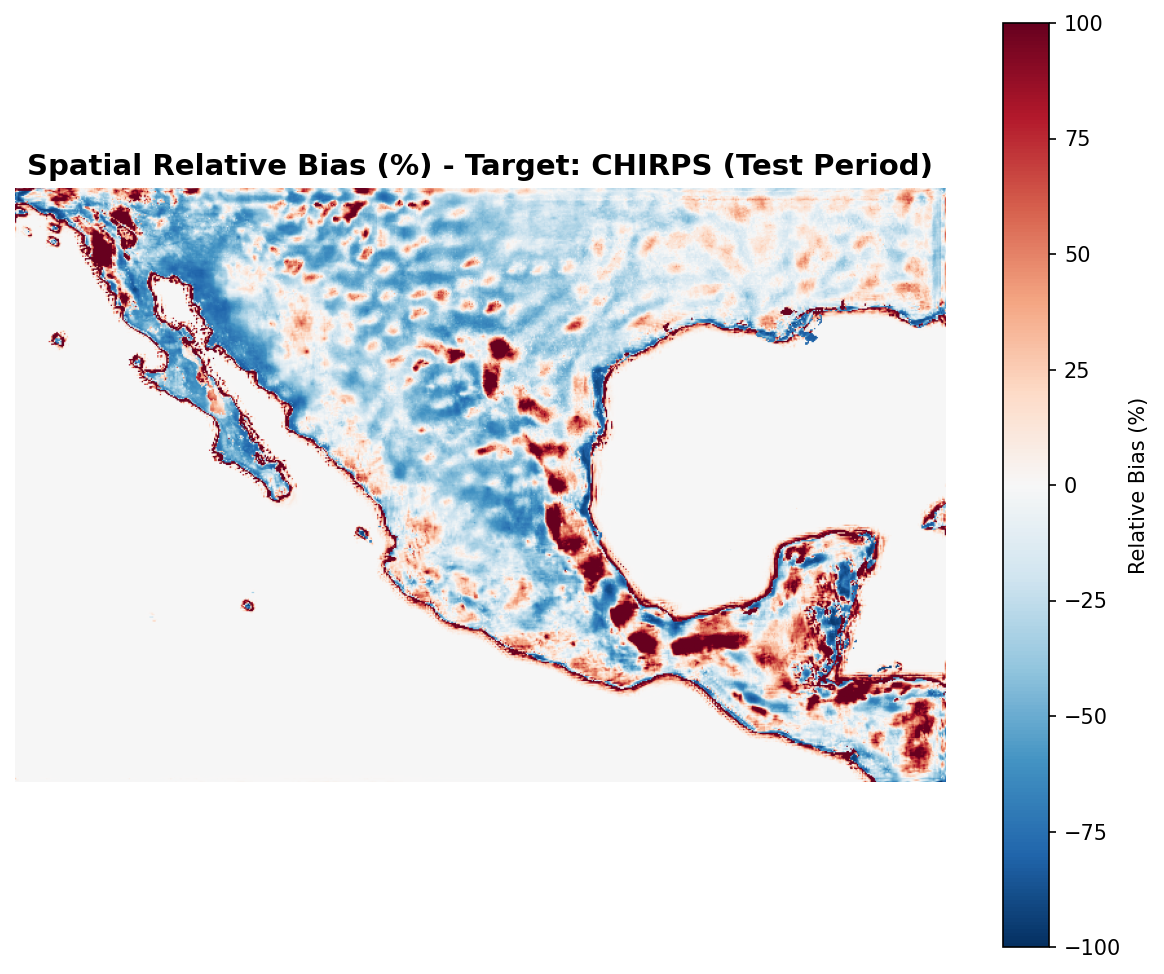
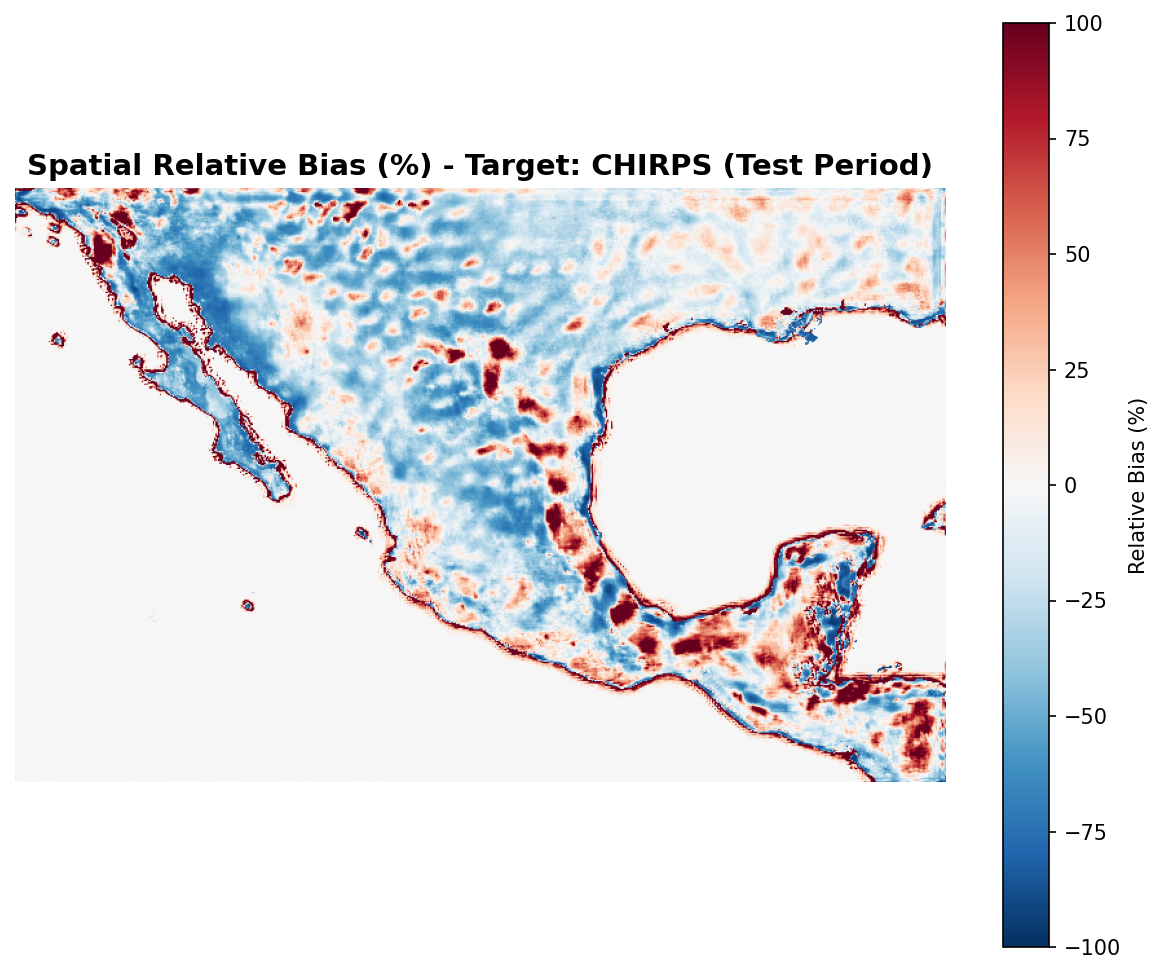
refactor: replace VGG perceptual loss with spectral loss, incorporate land masking, and add configurable model capacities with LR schedulers

diff --git a/src/training/train_experiment.py b/src/training/train_experiment.py
@@ -11,6 +11,7 @@ sys.path.append(os.path.abspath(os.path.join(os.path.dirname(__file__), '..', '.
 from src.utils.config import Config
 from src.data_preprocessing.dataset import PrecipDataset, FastPrecipDataset
 from src.models.rrdb_gan import GeneratorGAN1, GeneratorGAN2, PatchGANDiscriminator
+from src.utils.land_mask import get_land_mask
 
 logger = Config.get_logger()
 
@@ -19,24 +20,22 @@ torch.manual_seed(42)
 if torch.cuda.is_available():
     torch.cuda.manual_seed_all(42)
 
-class VGGFeatureExtractor(nn.Module):
-    """VGG19 feature extractor for perceptual loss calculation."""
+def spectral_loss(pred, target):
+    """L1 loss between the amplitude spectra of pred and target.
 
-    def __init__(self):
-        super().__init__()
-        import torchvision.models as models
-        # Attempt to load pretrained VGG19 features
-        vgg = models.vgg19(weights=models.VGG19_Weights.DEFAULT)
-        # Extract features up to conv4_4 layer
-        self.features = nn.Sequential(*list(vgg.features.children())[:16]).eval()
-        for param in self.features.parameters():
-            param.requires_grad = False
+    Penalizes differences in spatial frequency content, which captures
+    precipitation texture better than pixel-wise losses alone.
 
-    def forward(self, x):
-        # Replicate grayscale channel to 3 channels for RGB VGG
-        x_rgb = torch.cat([x, x, x], dim=1)
-        # Standard Imagenet normalizations applied inside
-        return self.features(x_rgb)
+    Args:
+        pred (torch.Tensor): Predicted field, shape (B, 1, H, W), normalized.
+        target (torch.Tensor): Target field, shape (B, 1, H, W), normalized.
+
+    Returns:
+        torch.Tensor: Scalar loss value.
+    """
+    fft_pred = torch.fft.rfft2(pred)
+    fft_target = torch.fft.rfft2(target)
+    return F.l1_loss(torch.abs(fft_pred), torch.abs(fft_target))
 
 def denormalize_precip(tensor, mean, std, log_transform=True):
     # tensor: (B, 1, H, W)
@@ -58,10 +57,16 @@ def denormalize_precip(tensor, mean, std, log_transform=True):
         denorm = torch.expm1(denorm)
     return torch.clamp(denorm, min=0.0)
 
-def run_training_experiment(target_name, epochs, batch_size, save_interval, device_name, dry_run=False):
+def run_training_experiment(
+    target_name, epochs, batch_size, save_interval, device_name, dry_run=False,
+    model_size='small', pixel_weight=5.0, adv_weight=0.2
+):
     device = torch.device(device_name if torch.cuda.is_available() and device_name.startswith('cuda') else 'cpu')
-    logger.info(f"Running training experiment on device: {device} for target: {target_name} (Dry run: {dry_run})")
-    
+    logger.info(
+        f"Running training experiment on device: {device} for target: {target_name} "
+        f"(Dry run: {dry_run}, model_size: {model_size}, pixel_weight: {pixel_weight}, adv_weight: {adv_weight})"
+    )
+
     if device.type == 'cuda':
         torch.backends.cudnn.benchmark = True
         logger.info("cuDNN benchmarking enabled for faster static-input convolutions.")
@@ -107,40 +112,64 @@ def run_training_experiment(target_name, epochs, batch_size, save_interval, devi
 
     # 2. Instantiate Models
     logger.info("Instantiating models...")
-    netG1 = GeneratorGAN1(in_nc=18).to(device)
-    netD1 = PatchGANDiscriminator(in_nc=1).to(device)
-    
-    netG2 = GeneratorGAN2(in_nc=4).to(device)
-    netD2 = PatchGANDiscriminator(in_nc=1).to(device)
+    nf = 64 if model_size == 'large' else 32
+    nb = 8  if model_size == 'large' else 4
+    gc = 32 if model_size == 'large' else 16
+    ndf = 64 if model_size == 'large' else 32
+    logger.info(f"Model capacity: nf={nf}, nb={nb}, gc={gc} (model_size='{model_size}')")
+
+    netG1 = GeneratorGAN1(in_nc=18, nf=nf, nb=nb, gc=gc).to(device)
+    netD1 = PatchGANDiscriminator(in_nc=1, ndf=ndf).to(device)
+
+    netG2 = GeneratorGAN2(in_nc=4, nf=nf, nb=nb, gc=gc).to(device)
+    netD2 = PatchGANDiscriminator(in_nc=1, ndf=ndf).to(device)
 
     # 3. Setup Optimizers
     opt_G1 = torch.optim.Adam(netG1.parameters(), lr=1e-4, betas=(0.9, 0.999))
     opt_D1 = torch.optim.Adam(netD1.parameters(), lr=1e-4, betas=(0.9, 0.999))
-    
+
     opt_G2 = torch.optim.Adam(netG2.parameters(), lr=1e-4, betas=(0.9, 0.999))
     opt_D2 = torch.optim.Adam(netD2.parameters(), lr=1e-4, betas=(0.9, 0.999))
 
-    # 4. Setup Losses and Weights
+    # 4a. LR Schedulers — cosine annealing; lr decays from 1e-4 to 1e-6 over all epochs
+    scheduler_G1 = torch.optim.lr_scheduler.CosineAnnealingLR(opt_G1, T_max=epochs, eta_min=1e-6)
+    scheduler_D1 = torch.optim.lr_scheduler.CosineAnnealingLR(opt_D1, T_max=epochs, eta_min=1e-6)
+    scheduler_G2 = torch.optim.lr_scheduler.CosineAnnealingLR(opt_G2, T_max=epochs, eta_min=1e-6)
+    scheduler_D2 = torch.optim.lr_scheduler.CosineAnnealingLR(opt_D2, T_max=epochs, eta_min=1e-6)
+
+    # 4b. Setup Losses and Weights
     criterion_pixel = nn.L1Loss()
     criterion_gan = nn.BCEWithLogitsLoss()
-    
-    # Load VGG with fallback if offline
-    try:
-        criterion_perceptual = VGGFeatureExtractor().to(device)
-        perceptual_weight = 1.0
-        logger.info("Perceptual loss enabled using VGG19.")
-    except Exception as e:
-        criterion_perceptual = None
-        perceptual_weight = 0.0
-        logger.warning(f"Perceptual loss disabled because VGG19 could not be downloaded/loaded: {e}")
 
-    pixel_weight = 10.0
-    adv_weight = 0.1
+    # Spectral loss replaces VGG perceptual loss — domain-appropriate for precipitation fields
+    spectral_weight = 0.5
+    # Occurrence loss encourages correct wet/dry discrimination
+    occurrence_weight = 1.0
+
+    logger.info(
+        f"Loss weights — pixel: {pixel_weight}, adv: {adv_weight}, "
+        f"spectral: {spectral_weight}, occurrence (Stage-2 only): {occurrence_weight}"
+    )
+
+    # 4c. Land mask — used to exclude ocean pixels from pixel loss
+    land_mask_5km = get_land_mask(device=device)  # (1, 1, 460, 720)
+    land_mask_10km = F.interpolate(land_mask_5km, size=(230, 360), mode='nearest')  # (1, 1, 230, 360)
+
+    # 4d. Precipitation occurrence threshold in normalized space (corresponds to 1 mm/day)
+    import math
+    if log_transform:
+        threshold_norm = (math.log1p(1.0) - mean_val.item()) / std_val.item()
+    else:
+        threshold_norm = (1.0 - mean_val.item()) / std_val.item()
 
     # ----------------------------------------------------
     # STAGE 1: Train GAN-1 (ERA5 25km -> Intermediate 10km)
     # ----------------------------------------------------
     logger.info("=== STAGE 1: Training GAN-1 ===")
+    best_val_mae_g1 = float('inf')
+    patience_g1 = 0
+    PATIENCE = 3
+    best_g1_path = os.path.join(checkpoints_dir, f"gan1_{target_name}_best.pt")
     for epoch in range(1, epochs + 1):
         netG1.train()
         netD1.train()
@@ -171,15 +200,12 @@ def run_training_experiment(target_name, epochs, batch_size, save_interval, devi
             opt_G1.zero_grad()
             pred_fake_g = netD1(fake_10km)
             loss_G_adv = criterion_gan(pred_fake_g, torch.ones_like(pred_fake_g))
-            loss_G_pixel = criterion_pixel(fake_10km, real_10km)
-            
-            loss_G = adv_weight * loss_G_adv + pixel_weight * loss_G_pixel
-            
-            if criterion_perceptual is not None:
-                feat_fake = criterion_perceptual(fake_10km)
-                feat_real = criterion_perceptual(real_10km)
-                loss_G_percep = criterion_pixel(feat_fake, feat_real)
-                loss_G += perceptual_weight * loss_G_percep
+            # Land-masked pixel loss — excludes ocean fill values from gradient
+            loss_G_pixel = criterion_pixel(fake_10km * land_mask_10km, real_10km * land_mask_10km)
+            # Spectral consistency loss — penalizes power-spectrum differences
+            loss_G_spectral = spectral_loss(fake_10km, real_10km)
+
+            loss_G = adv_weight * loss_G_adv + pixel_weight * loss_G_pixel + spectral_weight * loss_G_spectral
 
             loss_G.backward()
             opt_G1.step()
@@ -237,8 +263,27 @@ def run_training_experiment(target_name, epochs, batch_size, save_interval, devi
         avg_d_loss = epoch_d_loss / num_batches_train
 
         logger.info(
-            f"GAN-1 Epoch [{epoch}/{epochs}] | G Loss: {avg_g_loss:.4f} | D Loss: {avg_d_loss:.4f} | MAE: {avg_mae:.4f} mm/d | RMSE: {avg_rmse:.4f} mm/d | R^2: {avg_r2:.4f} | Corr: {avg_corr:.4f}"
+            f"GAN-1 Epoch [{epoch}/{epochs}] | G Loss: {avg_g_loss:.4f} | D Loss: {avg_d_loss:.4f} | "
+            f"MAE: {avg_mae:.4f} mm/d | RMSE: {avg_rmse:.4f} mm/d | R^2: {avg_r2:.4f} | Corr: {avg_corr:.4f} | "
+            f"LR: {scheduler_G1.get_last_lr()[0]:.2e}"
         )
+
+        # Early stopping on validation MAE
+        if avg_mae < best_val_mae_g1:
+            best_val_mae_g1 = avg_mae
+            patience_g1 = 0
+            torch.save(netG1.state_dict(), best_g1_path)
+            logger.info(f"GAN-1 new best MAE: {avg_mae:.4f} mm/d — best checkpoint saved.")
+        else:
+            patience_g1 += 1
+            if patience_g1 >= PATIENCE:
+                logger.info(f"GAN-1 early stopping triggered at epoch {epoch} (patience={PATIENCE}).")
+                netG1.load_state_dict(torch.load(best_g1_path, map_location=device))
+                break
+
+        # Step LR schedulers at the end of each epoch
+        scheduler_G1.step()
+        scheduler_D1.step()
 
         if epoch % save_interval == 0 or epoch == epochs:
             g1_path = os.path.join(checkpoints_dir, f"gan1_gen_epoch_{epoch}.pt")
@@ -249,7 +294,10 @@ def run_training_experiment(target_name, epochs, batch_size, save_interval, devi
     # STAGE 2: Train GAN-2 (Intermediate 10km + Physics -> High-res 5km)
     # ----------------------------------------------------
     logger.info("=== STAGE 2: Training GAN-2 ===")
-    netG1.eval() # Freeze GAN-1 Generator
+    netG1.eval()  # Freeze GAN-1 Generator
+    best_val_mae_g2 = float('inf')
+    patience_g2 = 0
+    best_g2_path = os.path.join(checkpoints_dir, f"gan2_{target_name}_best.pt")
 
     for epoch in range(1, epochs + 1):
         netG2.train()
@@ -289,15 +337,21 @@ def run_training_experiment(target_name, epochs, batch_size, save_interval, devi
             opt_G2.zero_grad()
             pred_fake_g = netD2(fake_5km)
             loss_G_adv = criterion_gan(pred_fake_g, torch.ones_like(pred_fake_g))
-            loss_G_pixel = criterion_pixel(fake_5km, real_5km)
-            
-            loss_G = adv_weight * loss_G_adv + pixel_weight * loss_G_pixel
-            
-            if criterion_perceptual is not None:
-                feat_fake = criterion_perceptual(fake_5km)
-                feat_real = criterion_perceptual(real_5km)
-                loss_G_percep = criterion_pixel(feat_fake, feat_real)
-                loss_G += perceptual_weight * loss_G_percep
+            # Land-masked pixel loss
+            loss_G_pixel = criterion_pixel(fake_5km * land_mask_5km, real_5km * land_mask_5km)
+            # Spectral consistency loss
+            loss_G_spectral = spectral_loss(fake_5km, real_5km)
+            # Precipitation occurrence loss — soft BCE on wet/dry threshold
+            pred_occur = torch.sigmoid((fake_5km - threshold_norm) * 5.0)
+            true_occur = (real_5km >= threshold_norm).float()
+            loss_G_occur = F.binary_cross_entropy(pred_occur, true_occur)
+
+            loss_G = (
+                adv_weight * loss_G_adv
+                + pixel_weight * loss_G_pixel
+                + spectral_weight * loss_G_spectral
+                + occurrence_weight * loss_G_occur
+            )
 
             loss_G.backward()
             opt_G2.step()
@@ -360,8 +414,27 @@ def run_training_experiment(target_name, epochs, batch_size, save_interval, devi
         avg_d_loss = epoch_d_loss / num_batches_train
 
         logger.info(
-            f"GAN-2 Epoch [{epoch}/{epochs}] | G Loss: {avg_g_loss:.4f} | D Loss: {avg_d_loss:.4f} | MAE: {avg_mae:.4f} mm/d | RMSE: {avg_rmse:.4f} mm/d | R^2: {avg_r2:.4f} | Corr: {avg_corr:.4f}"
+            f"GAN-2 Epoch [{epoch}/{epochs}] | G Loss: {avg_g_loss:.4f} | D Loss: {avg_d_loss:.4f} | "
+            f"MAE: {avg_mae:.4f} mm/d | RMSE: {avg_rmse:.4f} mm/d | R^2: {avg_r2:.4f} | Corr: {avg_corr:.4f} | "
+            f"LR: {scheduler_G2.get_last_lr()[0]:.2e}"
         )
+
+        # Early stopping on validation MAE
+        if avg_mae < best_val_mae_g2:
+            best_val_mae_g2 = avg_mae
+            patience_g2 = 0
+            torch.save(netG2.state_dict(), best_g2_path)
+            logger.info(f"GAN-2 new best MAE: {avg_mae:.4f} mm/d — best checkpoint saved.")
+        else:
+            patience_g2 += 1
+            if patience_g2 >= PATIENCE:
+                logger.info(f"GAN-2 early stopping triggered at epoch {epoch} (patience={PATIENCE}).")
+                netG2.load_state_dict(torch.load(best_g2_path, map_location=device))
+                break
+
+        # Step LR schedulers at the end of each epoch
+        scheduler_G2.step()
+        scheduler_D2.step()
 
         if epoch % save_interval == 0 or epoch == epochs:
             g2_path = os.path.join(checkpoints_dir, f"gan2_gen_epoch_{epoch}.pt")
@@ -383,6 +456,18 @@ def main():
     parser.add_argument("--save_interval", type=int, default=5, help="Save checkpoints interval in epochs")
     parser.add_argument("--device", type=str, default="cuda", help="Training execution device (cuda or cpu)")
     parser.add_argument("--dry-run", action="store_true", help="Execute in dry-run mode (runs 2 batches per epoch)")
+    parser.add_argument(
+        "--model_size", type=str, default="small", choices=["small", "large"],
+        help="Model capacity: small=nb=4,nf=32 | large=nb=8,nf=64"
+    )
+    parser.add_argument(
+        "--pixel_weight", type=float, default=5.0,
+        help="Weight for the L1 pixel loss term (default: 5.0)"
+    )
+    parser.add_argument(
+        "--adv_weight", type=float, default=0.2,
+        help="Weight for the adversarial GAN loss term (default: 0.2)"
+    )
     args = parser.parse_args()
 
     run_training_experiment(
@@ -391,7 +476,10 @@ def main():
         batch_size=args.batch_size,
         save_interval=args.save_interval,
         device_name=args.device,
-        dry_run=args.dry_run
+        dry_run=args.dry_run,
+        model_size=args.model_size,
+        pixel_weight=args.pixel_weight,
+        adv_weight=args.adv_weight,
     )
 
 if __name__ == "__main__":
